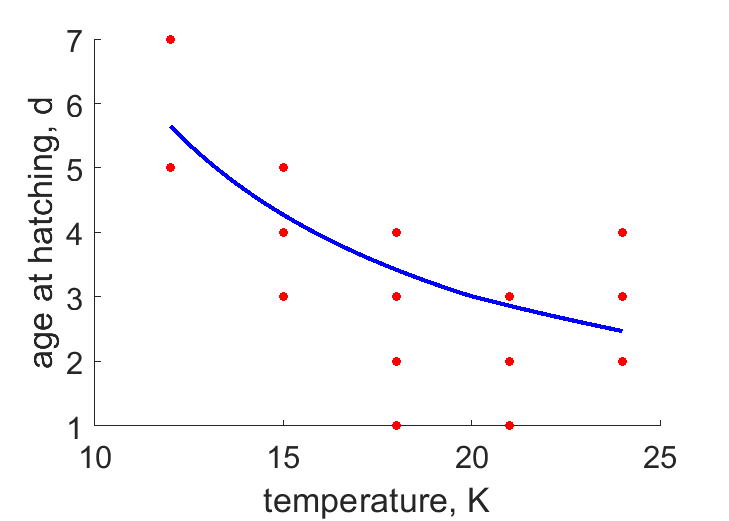
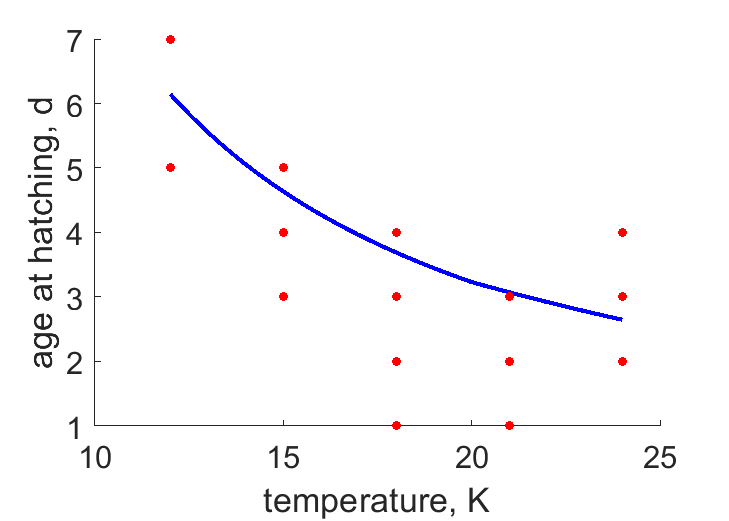
including respiration data for abj and abp

Changed region(s): [[0.2414, 0.1843, 0.845, 0.6449]]

diff --git a/Tachidius_discipes_abj/Tachidius_discipes_res.html b/Tachidius_discipes_abj/Tachidius_discipes_res.html
@@ -44,7 +44,7 @@
   </div>
 
   <div class="par">
-  <h4>COMPLETE = 2.0; MRE =    0.139; SMAE =    0.145; SMSE =    0.044 </h4>
+  <h4>COMPLETE = 2.0; MRE =    0.148; SMAE =    0.153; SMSE =    0.045 </h4>
   </div>
 
   <p class="clear"></p>
@@ -53,29 +53,30 @@
   <h2>Data & predictions</h2>
   <TABLE id="prd">
     <TR  class="head"><TH>data</TH> <TH>prd</TH> <TH>RE</TH>  <TH>symbol</TH> <TH>units</TH> <TH>description</TH> </TR>
-    <TR><TD>4.375</TD> <TD>4.274</TD> <TD>0.0231</TD> <TD>ah</TD> <TD>d</TD> <TD>age at hatch</TD></TR>
-    <TR><TD>0.006853</TD> <TD>0.006839</TD> <TD>0.00202</TD> <TD>Lh</TD> <TD>cm</TD> <TD>length at hatch</TD></TR>
-    <TR><TD>0.007812</TD> <TD>0.008386</TD> <TD>0.07344</TD> <TD>Lb</TD> <TD>cm</TD> <TD>length at birth</TD></TR>
-    <TR><TD>0.02666</TD> <TD>0.02335</TD> <TD>0.124</TD> <TD>Lp</TD> <TD>cm</TD> <TD>length at puberty</TD></TR>
-    <TR><TD>2.057e-05</TD> <TD>1.996e-05</TD> <TD>0.02977</TD> <TD>Wdp</TD> <TD>g</TD> <TD>ultimate dry weight at puberty</TD></TR>
-    <TR><TD colspan="2">see figure</TD> <TD>0.1217</TD> <TD>tL12</TD> <TD colspan="2">time <font color="blue"><i>vs.</i></font> area^{(1/2)}</TD>
-    <TR><TD colspan="2">see figure</TD> <TD>0.1011</TD> <TD>tL15</TD> <TD colspan="2">time <font color="blue"><i>vs.</i></font> area^{(1/2)}</TD>
-    <TR><TD colspan="2">see figure</TD> <TD>0.1236</TD> <TD>tL18</TD> <TD colspan="2">time <font color="blue"><i>vs.</i></font> area^{(1/2)}</TD>
-    <TR><TD colspan="2">see figure</TD> <TD>0.1149</TD> <TD>tL21</TD> <TD colspan="2">time <font color="blue"><i>vs.</i></font> area^{(1/2)}</TD>
-    <TR><TD colspan="2">see figure</TD> <TD>0.069</TD> <TD>tL24</TD> <TD colspan="2">time <font color="blue"><i>vs.</i></font> area^{(1/2)}</TD>
-    <TR><TD colspan="2">see figure</TD> <TD>0.1129</TD> <TD>tN12</TD> <TD colspan="2">time <font color="blue"><i>vs.</i></font> clutch size</TD>
-    <TR><TD colspan="2">see figure</TD> <TD>0.2685</TD> <TD>tN15</TD> <TD colspan="2">time <font color="blue"><i>vs.</i></font> clutch size</TD>
-    <TR><TD colspan="2">see figure</TD> <TD>0.138</TD> <TD>tN18</TD> <TD colspan="2">time <font color="blue"><i>vs.</i></font> clutch size</TD>
-    <TR><TD colspan="2">see figure</TD> <TD>0.4963</TD> <TD>tN21</TD> <TD colspan="2">time <font color="blue"><i>vs.</i></font> clutch size</TD>
-    <TR><TD colspan="2">see figure</TD> <TD>0.275</TD> <TD>tN24</TD> <TD colspan="2">time <font color="blue"><i>vs.</i></font> clutch size</TD>
-    <TR><TD colspan="2">see figure</TD> <TD>0.2265</TD> <TD>Tah</TD> <TD colspan="2">temperature <font color="blue"><i>vs.</i></font> age at hatching</TD>
-    <TR><TD colspan="2">see figure</TD> <TD>0.07128</TD> <TD>Tap</TD> <TD colspan="2">temperature <font color="blue"><i>vs.</i></font> age at puberty</TD>
-    <TR class="psd"><TD>0.02</TD> <TD>0.01161</TD> <TD>0.4196</TD> <TD>psd.v</TD> <TD>cm/d</TD> <TD>energy conductance</TD></TR>
-    <TR class="psd"><TD> 18</TD> <TD>1400</TD> <TD>76.79</TD> <TD>psd.p_M</TD> <TD>J/d.cm^3</TD> <TD>vol-spec som maint</TD></TR>
-    <TR class="psd"><TD>0.002</TD> <TD>0.002162</TD> <TD>0.08096</TD> <TD>psd.k_J</TD> <TD>1/d</TD> <TD>maturity maint rate coefficient</TD></TR>
-    <TR class="psd"><TD>0.3</TD> <TD>0.006873</TD> <TD>0.9771</TD> <TD>psd.k</TD> <TD>-</TD> <TD>maintenance ratio</TD></TR>
-    <TR class="psd"><TD>0.8</TD> <TD>0.9994</TD> <TD>0.2493</TD> <TD>psd.kap</TD> <TD>-</TD> <TD>allocation fraction to soma</TD></TR>
-    <TR class="psd"><TD>0.8</TD> <TD>0.7989</TD> <TD>0.001324</TD> <TD>psd.kap_G</TD> <TD>-</TD> <TD>growth efficiency</TD></TR>
+    <TR><TD>4.375</TD> <TD>4.636</TD> <TD>0.0596</TD> <TD>ah</TD> <TD>d</TD> <TD>age at hatch</TD></TR>
+    <TR><TD>0.006853</TD> <TD>0.007093</TD> <TD>0.03508</TD> <TD>Lh</TD> <TD>cm</TD> <TD>length at hatch</TD></TR>
+    <TR><TD>0.007812</TD> <TD>0.007612</TD> <TD>0.02564</TD> <TD>Lb</TD> <TD>cm</TD> <TD>length at birth</TD></TR>
+    <TR><TD>0.02666</TD> <TD>0.02327</TD> <TD>0.127</TD> <TD>Lp</TD> <TD>cm</TD> <TD>length at puberty</TD></TR>
+    <TR><TD>2.057e-05</TD> <TD>1.999e-05</TD> <TD>0.02808</TD> <TD>Wdp</TD> <TD>g</TD> <TD>ultimate dry weight at puberty</TD></TR>
+    <TR><TD>14.6</TD> <TD>11.74</TD> <TD>0.1955</TD> <TD>JOi</TD> <TD>nL/h/mug</TD> <TD>ultimate specific O2 consumption</TD></TR>
+    <TR><TD colspan="2">see figure</TD> <TD>0.1187</TD> <TD>tL12</TD> <TD colspan="2">time <font color="blue"><i>vs.</i></font> area^{(1/2)}</TD>
+    <TR><TD colspan="2">see figure</TD> <TD>0.09724</TD> <TD>tL15</TD> <TD colspan="2">time <font color="blue"><i>vs.</i></font> area^{(1/2)}</TD>
+    <TR><TD colspan="2">see figure</TD> <TD>0.1203</TD> <TD>tL18</TD> <TD colspan="2">time <font color="blue"><i>vs.</i></font> area^{(1/2)}</TD>
+    <TR><TD colspan="2">see figure</TD> <TD>0.1136</TD> <TD>tL21</TD> <TD colspan="2">time <font color="blue"><i>vs.</i></font> area^{(1/2)}</TD>
+    <TR><TD colspan="2">see figure</TD> <TD>0.07238</TD> <TD>tL24</TD> <TD colspan="2">time <font color="blue"><i>vs.</i></font> area^{(1/2)}</TD>
+    <TR><TD colspan="2">see figure</TD> <TD>0.1505</TD> <TD>tN12</TD> <TD colspan="2">time <font color="blue"><i>vs.</i></font> clutch size</TD>
+    <TR><TD colspan="2">see figure</TD> <TD>0.2683</TD> <TD>tN15</TD> <TD colspan="2">time <font color="blue"><i>vs.</i></font> clutch size</TD>
+    <TR><TD colspan="2">see figure</TD> <TD>0.1345</TD> <TD>tN18</TD> <TD colspan="2">time <font color="blue"><i>vs.</i></font> clutch size</TD>
+    <TR><TD colspan="2">see figure</TD> <TD>0.5175</TD> <TD>tN21</TD> <TD colspan="2">time <font color="blue"><i>vs.</i></font> clutch size</TD>
+    <TR><TD colspan="2">see figure</TD> <TD>0.2802</TD> <TD>tN24</TD> <TD colspan="2">time <font color="blue"><i>vs.</i></font> clutch size</TD>
+    <TR><TD colspan="2">see figure</TD> <TD>0.2552</TD> <TD>Tah</TD> <TD colspan="2">temperature <font color="blue"><i>vs.</i></font> age at hatching</TD>
+    <TR><TD colspan="2">see figure</TD> <TD>0.06735</TD> <TD>Tap</TD> <TD colspan="2">temperature <font color="blue"><i>vs.</i></font> age at puberty</TD>
+    <TR class="psd"><TD>0.02</TD> <TD>0.01027</TD> <TD>0.4863</TD> <TD>psd.v</TD> <TD>cm/d</TD> <TD>energy conductance</TD></TR>
+    <TR class="psd"><TD> 18</TD> <TD>2858</TD> <TD>157.8</TD> <TD>psd.p_M</TD> <TD>J/d.cm^3</TD> <TD>vol-spec som maint</TD></TR>
+    <TR class="psd"><TD>0.002</TD> <TD>0.002108</TD> <TD>0.05382</TD> <TD>psd.k_J</TD> <TD>1/d</TD> <TD>maturity maint rate coefficient</TD></TR>
+    <TR class="psd"><TD>0.3</TD> <TD>0.003255</TD> <TD>0.9891</TD> <TD>psd.k</TD> <TD>-</TD> <TD>maintenance ratio</TD></TR>
+    <TR class="psd"><TD>0.8</TD> <TD>0.9993</TD> <TD>0.2491</TD> <TD>psd.kap</TD> <TD>-</TD> <TD>allocation fraction to soma</TD></TR>
+    <TR class="psd"><TD>0.8</TD> <TD>0.8058</TD> <TD>0.00727</TD> <TD>psd.kap_G</TD> <TD>-</TD> <TD>growth efficiency</TD></TR>
     <TR class="psd"><TD>0.95</TD> <TD>0.95</TD> <TD>  0</TD> <TD>psd.kap_R</TD> <TD>-</TD> <TD>reproduction efficiency</TD></TR>
   </TABLE>
   </div>
@@ -85,33 +86,33 @@
   <TABLE id="par">
     <TR class="head"><TH>symbol</TH> <TH>units</TH> <TH>value</TH>  <TH>free</TH> <TH>description</TH> </TR>
     <TR><TD>T_ref</TD> <TD>K</TD> <TD>293.1</TD> <TD>0</TD> <TD>Reference temperature</TD></TR>
-    <TR><TD>T_A</TD> <TD>K</TD> <TD>4301</TD> <TD>1</TD> <TD>Arrhenius temperature</TD></TR>
-    <TR><TD>z</TD> <TD>-</TD> <TD>0.04366</TD> <TD>1</TD> <TD>zoom factor</TD></TR>
+    <TR><TD>T_A</TD> <TD>K</TD> <TD>4350</TD> <TD>1</TD> <TD>Arrhenius temperature</TD></TR>
+    <TR><TD>z</TD> <TD>-</TD> <TD>0.03329</TD> <TD>1</TD> <TD>zoom factor</TD></TR>
     <TR><TD>F_m</TD> <TD>l/d.cm^2</TD> <TD>6.5</TD> <TD>0</TD> <TD>{F_m}, max spec searching rate</TD></TR>
     <TR><TD>kap_X</TD> <TD>-</TD> <TD>0.8</TD> <TD>0</TD> <TD>digestion efficiency of food to reserve</TD></TR>
     <TR><TD>kap_P</TD> <TD>-</TD> <TD>0.1</TD> <TD>0</TD> <TD>faecation efficiency of food to faeces</TD></TR>
-    <TR><TD>v</TD> <TD>cm/d</TD> <TD>0.01161</TD> <TD>1</TD> <TD>energy conductance</TD></TR>
-    <TR><TD>kap</TD> <TD>-</TD> <TD>0.9994</TD> <TD>1</TD> <TD>allocation fraction to soma</TD></TR>
+    <TR><TD>v</TD> <TD>cm/d</TD> <TD>0.01027</TD> <TD>1</TD> <TD>energy conductance</TD></TR>
+    <TR><TD>kap</TD> <TD>-</TD> <TD>0.9993</TD> <TD>1</TD> <TD>allocation fraction to soma</TD></TR>
     <TR><TD>kap_R</TD> <TD>-</TD> <TD>0.95</TD> <TD>0</TD> <TD>reproduction efficiency</TD></TR>
-    <TR><TD>p_M</TD> <TD>J/d.cm^3</TD> <TD>1400</TD> <TD>1</TD> <TD>[p_M], vol-spec somatic maint</TD></TR>
+    <TR><TD>p_M</TD> <TD>J/d.cm^3</TD> <TD>2858</TD> <TD>1</TD> <TD>[p_M], vol-spec somatic maint</TD></TR>
     <TR><TD>p_T</TD> <TD>J/d.cm^2</TD> <TD>  0</TD> <TD>0</TD> <TD>{p_T}, surf-spec somatic maint</TD></TR>
-    <TR><TD>k_J</TD> <TD>1/d</TD> <TD>0.002162</TD> <TD>1</TD> <TD>maturity maint rate coefficient</TD></TR>
-    <TR><TD>E_G</TD> <TD>J/cm^3</TD> <TD>4451</TD> <TD>1</TD> <TD>[E_G], spec cost for structure</TD></TR>
-    <TR><TD>E_Hb</TD> <TD>J</TD> <TD>8.063e-06</TD> <TD>1</TD> <TD>maturity at birth</TD></TR>
-    <TR><TD>E_Hp</TD> <TD>J</TD> <TD>0.0003025</TD> <TD>1</TD> <TD>maturity at puberty</TD></TR>
+    <TR><TD>k_J</TD> <TD>1/d</TD> <TD>0.002108</TD> <TD>1</TD> <TD>maturity maint rate coefficient</TD></TR>
+    <TR><TD>E_G</TD> <TD>J/cm^3</TD> <TD>4414</TD> <TD>1</TD> <TD>[E_G], spec cost for structure</TD></TR>
+    <TR><TD>E_Hb</TD> <TD>J</TD> <TD>6.556e-06</TD> <TD>1</TD> <TD>maturity at birth</TD></TR>
+    <TR><TD>E_Hp</TD> <TD>J</TD> <TD>0.0004726</TD> <TD>1</TD> <TD>maturity at puberty</TD></TR>
     <TR><TD>h_a</TD> <TD>1/d^2</TD> <TD>2.737e-22</TD> <TD>0</TD> <TD>Weibull aging acceleration</TD></TR>
     <TR><TD>s_G</TD> <TD>-</TD> <TD>0.0001</TD> <TD>0</TD> <TD>Gompertz stress coefficient</TD></TR>
-    <TR><TD>E_Hh</TD> <TD>J</TD> <TD>3.888e-06</TD> <TD>1</TD> <TD>maturity at hatch</TD></TR>
-    <TR><TD>E_Hj</TD> <TD>J</TD> <TD>4.618e-05</TD> <TD>1</TD> <TD>maturity at metamorphosis</TD></TR>
-    <TR><TD>T_AL</TD> <TD>K</TD> <TD>1.795e+04</TD> <TD>1</TD> <TD>Arrhenius temperature low boundary</TD></TR>
+    <TR><TD>E_Hh</TD> <TD>J</TD> <TD>4.947e-06</TD> <TD>1</TD> <TD>maturity at hatch</TD></TR>
+    <TR><TD>E_Hj</TD> <TD>J</TD> <TD>2.876e-05</TD> <TD>1</TD> <TD>maturity at metamorphosis</TD></TR>
+    <TR><TD>T_AL</TD> <TD>K</TD> <TD>1.659e+04</TD> <TD>1</TD> <TD>Arrhenius temperature low boundary</TD></TR>
     <TR><TD>T_L</TD> <TD>K</TD> <TD>280</TD> <TD>0</TD> <TD>Lower temperature boundary for optimal growth</TD></TR>
-    <TR><TD>del_M</TD> <TD>-</TD> <TD>1.578</TD> <TD>1</TD> <TD>shape coefficient</TD></TR>
+    <TR><TD>del_M</TD> <TD>-</TD> <TD>1.405</TD> <TD>1</TD> <TD>shape coefficient</TD></TR>
     <TR><TD>f</TD> <TD>-</TD> <TD>  1</TD> <TD>0</TD> <TD>scaled functional response for 0-var data</TD></TR>
-    <TR><TD>f_tL12</TD> <TD>-</TD> <TD>1.131</TD> <TD>1</TD> <TD>scaled functional response for data at 12 C</TD></TR>
+    <TR><TD>f_tL12</TD> <TD>-</TD> <TD>1.154</TD> <TD>1</TD> <TD>scaled functional response for data at 12 C</TD></TR>
     <TR><TD>f_tL15</TD> <TD>-</TD> <TD>  1</TD> <TD>0</TD> <TD>scaled functional response for data at 15 C</TD></TR>
     <TR><TD>f_tL18</TD> <TD>-</TD> <TD>  1</TD> <TD>0</TD> <TD>scaled functional response for data at 18 C</TD></TR>
-    <TR><TD>f_tL21</TD> <TD>-</TD> <TD>0.9505</TD> <TD>1</TD> <TD>scaled functional response for data at 21 C</TD></TR>
-    <TR><TD>f_tL24</TD> <TD>-</TD> <TD>0.8764</TD> <TD>1</TD> <TD>scaled functional response for data at 24 C</TD></TR>
+    <TR><TD>f_tL21</TD> <TD>-</TD> <TD>0.9703</TD> <TD>1</TD> <TD>scaled functional response for data at 21 C</TD></TR>
+    <TR><TD>f_tL24</TD> <TD>-</TD> <TD>0.9091</TD> <TD>1</TD> <TD>scaled functional response for data at 24 C</TD></TR>
   </TABLE>
   </div>
 

diff --git a/Tachidius_discipes_abp/Tachidius_discipes_res.html b/Tachidius_discipes_abp/Tachidius_discipes_res.html
@@ -44,7 +44,7 @@
   </div>
 
   <div class="par">
-  <h4>COMPLETE = 2.0; MRE =    0.155; SMAE =    0.161; SMSE =    0.051 </h4>
+  <h4>COMPLETE = 2.0; MRE =    0.145; SMAE =    0.150; SMSE =    0.044 </h4>
   </div>
 
   <p class="clear"></p>
@@ -53,29 +53,30 @@
   <h2>Data & predictions</h2>
   <TABLE id="prd">
     <TR  class="head"><TH>data</TH> <TH>prd</TH> <TH>RE</TH>  <TH>symbol</TH> <TH>units</TH> <TH>description</TH> </TR>
-    <TR><TD>4.375</TD> <TD>4.243</TD> <TD>0.03017</TD> <TD>ah</TD> <TD>d</TD> <TD>age at hatch</TD></TR>
-    <TR><TD>0.006853</TD> <TD>0.007919</TD> <TD>0.1557</TD> <TD>Lh</TD> <TD>cm</TD> <TD>length at hatch</TD></TR>
-    <TR><TD>0.007812</TD> <TD>0.00907</TD> <TD>0.161</TD> <TD>Lb</TD> <TD>cm</TD> <TD>length at birth</TD></TR>
-    <TR><TD>0.02666</TD> <TD>0.02463</TD> <TD>0.07612</TD> <TD>Lp</TD> <TD>cm</TD> <TD>length at puberty</TD></TR>
-    <TR><TD>2.057e-05</TD> <TD>1.912e-05</TD> <TD>0.07061</TD> <TD>Wdp</TD> <TD>g</TD> <TD>ultimate dry weight at puberty</TD></TR>
-    <TR><TD colspan="2">see figure</TD> <TD>0.08427</TD> <TD>tL12</TD> <TD colspan="2">time <font color="blue"><i>vs.</i></font> area^{(1/2)}</TD>
-    <TR><TD colspan="2">see figure</TD> <TD>0.07082</TD> <TD>tL15</TD> <TD colspan="2">time <font color="blue"><i>vs.</i></font> area^{(1/2)}</TD>
-    <TR><TD colspan="2">see figure</TD> <TD>0.09289</TD> <TD>tL18</TD> <TD colspan="2">time <font color="blue"><i>vs.</i></font> area^{(1/2)}</TD>
-    <TR><TD colspan="2">see figure</TD> <TD>0.1309</TD> <TD>tL21</TD> <TD colspan="2">time <font color="blue"><i>vs.</i></font> area^{(1/2)}</TD>
-    <TR><TD colspan="2">see figure</TD> <TD>0.07586</TD> <TD>tL24</TD> <TD colspan="2">time <font color="blue"><i>vs.</i></font> area^{(1/2)}</TD>
-    <TR><TD colspan="2">see figure</TD> <TD>0.1209</TD> <TD>tN12</TD> <TD colspan="2">time <font color="blue"><i>vs.</i></font> clutch size</TD>
-    <TR><TD colspan="2">see figure</TD> <TD>0.3031</TD> <TD>tN15</TD> <TD colspan="2">time <font color="blue"><i>vs.</i></font> clutch size</TD>
-    <TR><TD colspan="2">see figure</TD> <TD>0.1429</TD> <TD>tN18</TD> <TD colspan="2">time <font color="blue"><i>vs.</i></font> clutch size</TD>
-    <TR><TD colspan="2">see figure</TD> <TD>0.5059</TD> <TD>tN21</TD> <TD colspan="2">time <font color="blue"><i>vs.</i></font> clutch size</TD>
-    <TR><TD colspan="2">see figure</TD> <TD>0.2931</TD> <TD>tN24</TD> <TD colspan="2">time <font color="blue"><i>vs.</i></font> clutch size</TD>
-    <TR><TD colspan="2">see figure</TD> <TD>0.2262</TD> <TD>Tah</TD> <TD colspan="2">temperature <font color="blue"><i>vs.</i></font> age at hatching</TD>
-    <TR><TD colspan="2">see figure</TD> <TD>0.0937</TD> <TD>Tap</TD> <TD colspan="2">temperature <font color="blue"><i>vs.</i></font> age at puberty</TD>
-    <TR class="psd"><TD>0.02</TD> <TD>0.01269</TD> <TD>0.3656</TD> <TD>psd.v</TD> <TD>cm/d</TD> <TD>energy conductance</TD></TR>
-    <TR class="psd"><TD> 18</TD> <TD>2784</TD> <TD>153.7</TD> <TD>psd.p_M</TD> <TD>J/d.cm^3</TD> <TD>vol-spec som maint</TD></TR>
-    <TR class="psd"><TD>0.002</TD> <TD>0.0017</TD> <TD>0.15</TD> <TD>psd.k_J</TD> <TD>1/d</TD> <TD>maturity maint rate coefficient</TD></TR>
-    <TR class="psd"><TD>0.3</TD> <TD>0.002738</TD> <TD>0.9909</TD> <TD>psd.k</TD> <TD>-</TD> <TD>maintenance ratio</TD></TR>
+    <TR><TD>4.375</TD> <TD>4.087</TD> <TD>0.06581</TD> <TD>ah</TD> <TD>d</TD> <TD>age at hatch</TD></TR>
+    <TR><TD>0.006853</TD> <TD>0.007002</TD> <TD>0.02174</TD> <TD>Lh</TD> <TD>cm</TD> <TD>length at hatch</TD></TR>
+    <TR><TD>0.007812</TD> <TD>0.00901</TD> <TD>0.1533</TD> <TD>Lb</TD> <TD>cm</TD> <TD>length at birth</TD></TR>
+    <TR><TD>0.02666</TD> <TD>0.02294</TD> <TD>0.1395</TD> <TD>Lp</TD> <TD>cm</TD> <TD>length at puberty</TD></TR>
+    <TR><TD>2.057e-05</TD> <TD>2.161e-05</TD> <TD>0.05027</TD> <TD>Wdp</TD> <TD>g</TD> <TD>ultimate dry weight at puberty</TD></TR>
+    <TR><TD>14.6</TD> <TD>13.08</TD> <TD>0.104</TD> <TD>JOi</TD> <TD>nL/h/mug</TD> <TD>ultimate specific O2 consumption</TD></TR>
+    <TR><TD colspan="2">see figure</TD> <TD>0.09897</TD> <TD>tL12</TD> <TD colspan="2">time <font color="blue"><i>vs.</i></font> area^{(1/2)}</TD>
+    <TR><TD colspan="2">see figure</TD> <TD>0.07778</TD> <TD>tL15</TD> <TD colspan="2">time <font color="blue"><i>vs.</i></font> area^{(1/2)}</TD>
+    <TR><TD colspan="2">see figure</TD> <TD>0.1029</TD> <TD>tL18</TD> <TD colspan="2">time <font color="blue"><i>vs.</i></font> area^{(1/2)}</TD>
+    <TR><TD colspan="2">see figure</TD> <TD>0.1003</TD> <TD>tL21</TD> <TD colspan="2">time <font color="blue"><i>vs.</i></font> area^{(1/2)}</TD>
+    <TR><TD colspan="2">see figure</TD> <TD>0.07579</TD> <TD>tL24</TD> <TD colspan="2">time <font color="blue"><i>vs.</i></font> area^{(1/2)}</TD>
+    <TR><TD colspan="2">see figure</TD> <TD>0.1173</TD> <TD>tN12</TD> <TD colspan="2">time <font color="blue"><i>vs.</i></font> clutch size</TD>
+    <TR><TD colspan="2">see figure</TD> <TD>0.2731</TD> <TD>tN15</TD> <TD colspan="2">time <font color="blue"><i>vs.</i></font> clutch size</TD>
+    <TR><TD colspan="2">see figure</TD> <TD>0.1522</TD> <TD>tN18</TD> <TD colspan="2">time <font color="blue"><i>vs.</i></font> clutch size</TD>
+    <TR><TD colspan="2">see figure</TD> <TD>0.5135</TD> <TD>tN21</TD> <TD colspan="2">time <font color="blue"><i>vs.</i></font> clutch size</TD>
+    <TR><TD colspan="2">see figure</TD> <TD>0.2761</TD> <TD>tN24</TD> <TD colspan="2">time <font color="blue"><i>vs.</i></font> clutch size</TD>
+    <TR><TD colspan="2">see figure</TD> <TD>0.2101</TD> <TD>Tah</TD> <TD colspan="2">temperature <font color="blue"><i>vs.</i></font> age at hatching</TD>
+    <TR><TD colspan="2">see figure</TD> <TD>0.07462</TD> <TD>Tap</TD> <TD colspan="2">temperature <font color="blue"><i>vs.</i></font> age at puberty</TD>
+    <TR class="psd"><TD>0.02</TD> <TD>0.01346</TD> <TD>0.3272</TD> <TD>psd.v</TD> <TD>cm/d</TD> <TD>energy conductance</TD></TR>
+    <TR class="psd"><TD> 18</TD> <TD>2211</TD> <TD>121.9</TD> <TD>psd.p_M</TD> <TD>J/d.cm^3</TD> <TD>vol-spec som maint</TD></TR>
+    <TR class="psd"><TD>0.002</TD> <TD>0.002125</TD> <TD>0.06242</TD> <TD>psd.k_J</TD> <TD>1/d</TD> <TD>maturity maint rate coefficient</TD></TR>
+    <TR class="psd"><TD>0.3</TD> <TD>0.004254</TD> <TD>0.9858</TD> <TD>psd.k</TD> <TD>-</TD> <TD>maintenance ratio</TD></TR>
     <TR class="psd"><TD>0.8</TD> <TD>0.9997</TD> <TD>0.2496</TD> <TD>psd.kap</TD> <TD>-</TD> <TD>allocation fraction to soma</TD></TR>
-    <TR class="psd"><TD>0.8</TD> <TD>0.7934</TD> <TD>0.008303</TD> <TD>psd.kap_G</TD> <TD>-</TD> <TD>growth efficiency</TD></TR>
+    <TR class="psd"><TD>0.8</TD> <TD>0.8032</TD> <TD>0.004046</TD> <TD>psd.kap_G</TD> <TD>-</TD> <TD>growth efficiency</TD></TR>
     <TR class="psd"><TD>0.95</TD> <TD>0.95</TD> <TD>  0</TD> <TD>psd.kap_R</TD> <TD>-</TD> <TD>reproduction efficiency</TD></TR>
   </TABLE>
   </div>
@@ -85,32 +86,32 @@
   <TABLE id="par">
     <TR class="head"><TH>symbol</TH> <TH>units</TH> <TH>value</TH>  <TH>free</TH> <TH>description</TH> </TR>
     <TR><TD>T_ref</TD> <TD>K</TD> <TD>293.1</TD> <TD>0</TD> <TD>Reference temperature</TD></TR>
-    <TR><TD>T_A</TD> <TD>K</TD> <TD>3913</TD> <TD>1</TD> <TD>Arrhenius temperature</TD></TR>
-    <TR><TD>z</TD> <TD>-</TD> <TD>0.0231</TD> <TD>1</TD> <TD>zoom factor</TD></TR>
+    <TR><TD>T_A</TD> <TD>K</TD> <TD>4565</TD> <TD>1</TD> <TD>Arrhenius temperature</TD></TR>
+    <TR><TD>z</TD> <TD>-</TD> <TD>0.02923</TD> <TD>1</TD> <TD>zoom factor</TD></TR>
     <TR><TD>F_m</TD> <TD>l/d.cm^2</TD> <TD>6.5</TD> <TD>0</TD> <TD>{F_m}, max spec searching rate</TD></TR>
     <TR><TD>kap_X</TD> <TD>-</TD> <TD>0.8</TD> <TD>0</TD> <TD>digestion efficiency of food to reserve</TD></TR>
     <TR><TD>kap_P</TD> <TD>-</TD> <TD>0.1</TD> <TD>0</TD> <TD>faecation efficiency of food to faeces</TD></TR>
-    <TR><TD>v</TD> <TD>cm/d</TD> <TD>0.01269</TD> <TD>1</TD> <TD>energy conductance</TD></TR>
+    <TR><TD>v</TD> <TD>cm/d</TD> <TD>0.01346</TD> <TD>1</TD> <TD>energy conductance</TD></TR>
     <TR><TD>kap</TD> <TD>-</TD> <TD>0.9997</TD> <TD>1</TD> <TD>allocation fraction to soma</TD></TR>
     <TR><TD>kap_R</TD> <TD>-</TD> <TD>0.95</TD> <TD>0</TD> <TD>reproduction efficiency</TD></TR>
-    <TR><TD>p_M</TD> <TD>J/d.cm^3</TD> <TD>2784</TD> <TD>1</TD> <TD>[p_M], vol-spec somatic maint</TD></TR>
+    <TR><TD>p_M</TD> <TD>J/d.cm^3</TD> <TD>2211</TD> <TD>1</TD> <TD>[p_M], vol-spec somatic maint</TD></TR>
     <TR><TD>p_T</TD> <TD>J/d.cm^2</TD> <TD>  0</TD> <TD>0</TD> <TD>{p_T}, surf-spec somatic maint</TD></TR>
-    <TR><TD>k_J</TD> <TD>1/d</TD> <TD>0.0017</TD> <TD>1</TD> <TD>maturity maint rate coefficient</TD></TR>
-    <TR><TD>E_G</TD> <TD>J/cm^3</TD> <TD>4483</TD> <TD>1</TD> <TD>[E_G], spec cost for structure</TD></TR>
-    <TR><TD>E_Hb</TD> <TD>J</TD> <TD>6.917e-06</TD> <TD>1</TD> <TD>maturity at birth</TD></TR>
-    <TR><TD>E_Hp</TD> <TD>J</TD> <TD>0.000284</TD> <TD>1</TD> <TD>maturity at puberty</TD></TR>
+    <TR><TD>k_J</TD> <TD>1/d</TD> <TD>0.002125</TD> <TD>1</TD> <TD>maturity maint rate coefficient</TD></TR>
+    <TR><TD>E_G</TD> <TD>J/cm^3</TD> <TD>4428</TD> <TD>1</TD> <TD>[E_G], spec cost for structure</TD></TR>
+    <TR><TD>E_Hb</TD> <TD>J</TD> <TD>8.524e-06</TD> <TD>1</TD> <TD>maturity at birth</TD></TR>
+    <TR><TD>E_Hp</TD> <TD>J</TD> <TD>0.0002535</TD> <TD>1</TD> <TD>maturity at puberty</TD></TR>
     <TR><TD>h_a</TD> <TD>1/d^2</TD> <TD>2.737e-22</TD> <TD>0</TD> <TD>Weibull aging acceleration</TD></TR>
     <TR><TD>s_G</TD> <TD>-</TD> <TD>0.0001</TD> <TD>0</TD> <TD>Gompertz stress coefficient</TD></TR>
-    <TR><TD>E_Hh</TD> <TD>J</TD> <TD>3.81e-06</TD> <TD>1</TD> <TD>maturity at hatch</TD></TR>
-    <TR><TD>T_AL</TD> <TD>K</TD> <TD>2.002e+04</TD> <TD>1</TD> <TD>Arrhenius temperature low boundary</TD></TR>
+    <TR><TD>E_Hh</TD> <TD>J</TD> <TD>3.194e-06</TD> <TD>1</TD> <TD>maturity at hatch</TD></TR>
+    <TR><TD>T_AL</TD> <TD>K</TD> <TD>1.566e+04</TD> <TD>1</TD> <TD>Arrhenius temperature low boundary</TD></TR>
     <TR><TD>T_L</TD> <TD>K</TD> <TD>280</TD> <TD>0</TD> <TD>Lower temperature boundary for optimal growth</TD></TR>
-    <TR><TD>del_M</TD> <TD>-</TD> <TD>1.486</TD> <TD>1</TD> <TD>shape coefficient</TD></TR>
+    <TR><TD>del_M</TD> <TD>-</TD> <TD>1.678</TD> <TD>1</TD> <TD>shape coefficient</TD></TR>
     <TR><TD>f</TD> <TD>-</TD> <TD>  1</TD> <TD>0</TD> <TD>scaled functional response for 0-var data</TD></TR>
-    <TR><TD>f_tL12</TD> <TD>-</TD> <TD>1.085</TD> <TD>1</TD> <TD>scaled functional response for data at 12 C</TD></TR>
+    <TR><TD>f_tL12</TD> <TD>-</TD> <TD>1.124</TD> <TD>1</TD> <TD>scaled functional response for data at 12 C</TD></TR>
     <TR><TD>f_tL15</TD> <TD>-</TD> <TD>  1</TD> <TD>0</TD> <TD>scaled functional response for data at 15 C</TD></TR>
     <TR><TD>f_tL18</TD> <TD>-</TD> <TD>  1</TD> <TD>0</TD> <TD>scaled functional response for data at 18 C</TD></TR>
-    <TR><TD>f_tL21</TD> <TD>-</TD> <TD>0.9727</TD> <TD>1</TD> <TD>scaled functional response for data at 21 C</TD></TR>
-    <TR><TD>f_tL24</TD> <TD>-</TD> <TD>0.9626</TD> <TD>1</TD> <TD>scaled functional response for data at 24 C</TD></TR>
+    <TR><TD>f_tL21</TD> <TD>-</TD> <TD>0.9545</TD> <TD>1</TD> <TD>scaled functional response for data at 21 C</TD></TR>
+    <TR><TD>f_tL24</TD> <TD>-</TD> <TD>0.8972</TD> <TD>1</TD> <TD>scaled functional response for data at 24 C</TD></TR>
   </TABLE>
   </div>
 

diff --git a/Tachidius_discipes_abj/predict_Tachidius_discipes.m b/Tachidius_discipes_abj/predict_Tachidius_discipes.m
@@ -14,7 +14,8 @@ function [prdData, info] = predict_Tachidius_discipes(par, data, auxData)
   TC18 = tempcorr(temp.tL18, T_ref, pars_T);
   TC21 = tempcorr(temp.tL21, T_ref, pars_T);
   TC24 = tempcorr(temp.tL24, T_ref, pars_T);
-
+  TC_JOi = tempcorr(temp.JOi, T_ref, pars_T);                  % 20 C
+  
   % zero-variate data at f = f and T = 20 C (except for age at hatching at 15 C)
   
   % life cycle
@@ -44,13 +45,27 @@ function [prdData, info] = predict_Tachidius_discipes(par, data, auxData)
   L_p  = L_m * l_p;                  % cm, structural length at puberty
   Lw_p = L_p/ del_M;                 % cm, length at puberty
   Wd_p = L_p^3 * (1 + f * ome) * d_V; % g, ultimate dry weight
-   
+  Ww_p = 1e6 * L_p^3 * (1 + f * w);  % mug, wet weight at puberty
+  Wd_i = Ww_p * d_V;                 % mug, ultimate dry weight
+
+  % respiration at (and after) puberty at 20 C (using f_tL21)
+  pTA_p = TC_JOi * f * p_Am * L_p^2;                     % J/d, assimilation flux at puberty
+  pTC_p = pTA_p;                                         % J/d, mobilization flux at puberty is equivalent to assimilation flux
+  pTG_p = TC_JOi * 0;                                    % J/d, growth flux at puberty = 0
+  pTs_p = TC_JOi * p_M * L_p^3;                          % J/d, somatic maintenance flux at puberty
+  pTJ_p = TC_JOi * k_J * E_Hp;                           % J/d, maturity maintenance flux at puberty
+  pTR_p = pTC_p - pTs_p - pTJ_p;                         % J/d, reproduction flux at puberty
+  pTD_p = pTs_p + pTJ_p + (1 - kap_R) * pTR_p;           % J/d, dissipation flux at puberty
+  JT_M_p = -(n_M\ n_O) * eta_O * [pTA_p, pTD_p, pTG_p]'; % mol/d, mineral fluxes (J_C, J_H, J_O, J_N in rows)
+  JT_O_p = -JT_M_p(3) * 24.4/ 24/ 1e-9/ Wd_i;            % nL O2/h/mug, dry weight specific O2 consumption (with 24.4 L O2/mol)
+
   % pack to output
   prdData.ah  = a_h;             % d, age at hatch
   prdData.Lh  = Lw_h;            % cm, length at hatch
   prdData.Lb  = Lw_b;            % cm, length at birth
   prdData.Lp  = Lw_p;            % cm, length at puberty
   prdData.Wdp = Wd_p;            % g, dry weight at puberty
+  prdData.JOi = JT_O_p; % nL/h/mug, dry weight specific O2 consumption
   
   % uni-variate data
   p = [p_Am; v; p_M; k_J; kap; kap_G; E_G; E_Hb; E_Hj; E_Hp];

diff --git a/Tachidius_discipes_abp/predict_Tachidius_discipes.m b/Tachidius_discipes_abp/predict_Tachidius_discipes.m
@@ -14,7 +14,8 @@ function [prdData, info] = predict_Tachidius_discipes(par, data, auxData)
   TC18 = tempcorr(temp.tL18, T_ref, pars_T);
   TC21 = tempcorr(temp.tL21, T_ref, pars_T);
   TC24 = tempcorr(temp.tL24, T_ref, pars_T);
-
+  TC_JOi = tempcorr(temp.JOi, T_ref, pars_T);                  % 20 C
+  
   % zero-variate data at f = f and T = 20 C (except for age at hatching at 15 C)
   
   % life cycle
@@ -44,13 +45,27 @@ function [prdData, info] = predict_Tachidius_discipes(par, data, auxData)
   L_p  = L_m * l_p;                  % cm, structural length at puberty
   Lw_p = L_p/ del_M;                 % cm, length at puberty
   Wd_p = L_p^3 * (1 + f * ome) * d_V; % g, ultimate dry weight
-   
+  Ww_p = 1e6 * L_p^3 * (1 + f * w);  % mug, wet weight at puberty
+  Wd_i = Ww_p * d_V;                 % mug, ultimate dry weight
+
+  % respiration at (and after) puberty at 20 C (using f_tL21)
+  pTA_p = TC_JOi * f * p_Am * L_p^2;                     % J/d, assimilation flux at puberty
+  pTC_p = pTA_p;                                         % J/d, mobilization flux at puberty is equivalent to assimilation flux
+  pTG_p = TC_JOi * 0;                                    % J/d, growth flux at puberty = 0
+  pTs_p = TC_JOi * p_M * L_p^3;                          % J/d, somatic maintenance flux at puberty
+  pTJ_p = TC_JOi * k_J * E_Hp;                           % J/d, maturity maintenance flux at puberty
+  pTR_p = pTC_p - pTs_p - pTJ_p;                         % J/d, reproduction flux at puberty
+  pTD_p = pTs_p + pTJ_p + (1 - kap_R) * pTR_p;           % J/d, dissipation flux at puberty
+  JT_M_p = -(n_M\ n_O) * eta_O * [pTA_p, pTD_p, pTG_p]'; % mol/d, mineral fluxes (J_C, J_H, J_O, J_N in rows)
+  JT_O_p = -JT_M_p(3) * 24.4/ 24/ 1e-9/ Wd_i;            % nL O2/h/mug, dry weight specific O2 consumption (with 24.4 L O2/mol)
+  
   % pack to output
   prdData.ah  = a_h;             % d, age at hatch
   prdData.Lh  = Lw_h;            % cm, length at hatch
   prdData.Lb  = Lw_b;            % cm, length at birth
   prdData.Lp  = Lw_p;            % cm, length at puberty
   prdData.Wdp = Wd_p;            % g, dry weight at puberty
+  prdData.JOi = JT_O_p; % nL/h/mug, dry weight specific O2 consumption
   
   % uni-variate data
   p = [p_Am; v; p_M; k_J; kap; kap_G; E_G; E_Hb; E_Hp];

diff --git a/Tachidius_discipes_abp/mydata_Tachidius_discipes.m b/Tachidius_discipes_abp/mydata_Tachidius_discipes.m
@@ -48,7 +48,9 @@ data.Lb = 0.007812255; units.Lb = 'cm'; label.Lb = 'length at birth'; bibkey.Lb 
 data.Lp = 0.0266569358756218; units.Lp = 'cm'; label.Lp = 'length at puberty'; bibkey.Lp = {'Vigl2023'};
 
 data.Wdp = 0.0000205716902; units.Wdp = 'g'; label.Wdp = 'ultimate dry weight at puberty'; bibkey.Wdp = {'Vigl2023'};
-
+data.JOi = mean([17.44, 11.75]);  units.JOi = 'nL/h/mug';  label.JOi = 'ultimate specific O2 consumption';
+  bibkey.JOi = 'HermHeip1983';  temp.JOi = C2K(20);  units.temp.JOi = 'K'; label.temp.JOi = 'temperature';
+  comment.JOi = 'specific O2 consumption of four brackish water harpacticoida at ultimate length';
 %% set uni-variate data
 % time - length
 % code modified to work with means and standard deviation

diff --git a/Tachidius_discipes_abj/mydata_Tachidius_discipes.m b/Tachidius_discipes_abj/mydata_Tachidius_discipes.m
@@ -48,6 +48,9 @@ data.Lb = 0.007812255; units.Lb = 'cm'; label.Lb = 'length at birth'; bibkey.Lb 
 data.Lp = 0.0266569358756218; units.Lp = 'cm'; label.Lp = 'length at puberty'; bibkey.Lp = {'Vigl2023'};
 
 data.Wdp = 0.0000205716902; units.Wdp = 'g'; label.Wdp = 'ultimate dry weight at puberty'; bibkey.Wdp = {'Vigl2023'};
+data.JOi = mean([17.44, 11.75]);  units.JOi = 'nL/h/mug';  label.JOi = 'ultimate specific O2 consumption';
+  bibkey.JOi = 'HermHeip1983';  temp.JOi = C2K(20);  units.temp.JOi = 'K'; label.temp.JOi = 'temperature';
+  comment.JOi = 'specific O2 consumption of four brackish water harpacticoida at ultimate length';
 
 %% set uni-variate data
 % time - length

diff --git a/Tachidius_discipes_abj/run_Tachidius_discipes.m b/Tachidius_discipes_abj/run_Tachidius_discipes.m
@@ -29,7 +29,7 @@ pets = {'Tachidius_discipes'};
 check_my_pet(pets);
 
 estim_options('default');
-estim_options('max_step_number', 1e3);
+estim_options('max_step_number', 2e3);
 estim_options('max_fun_evals',5e3);
 
 estim_options('pars_init_method', 2);
